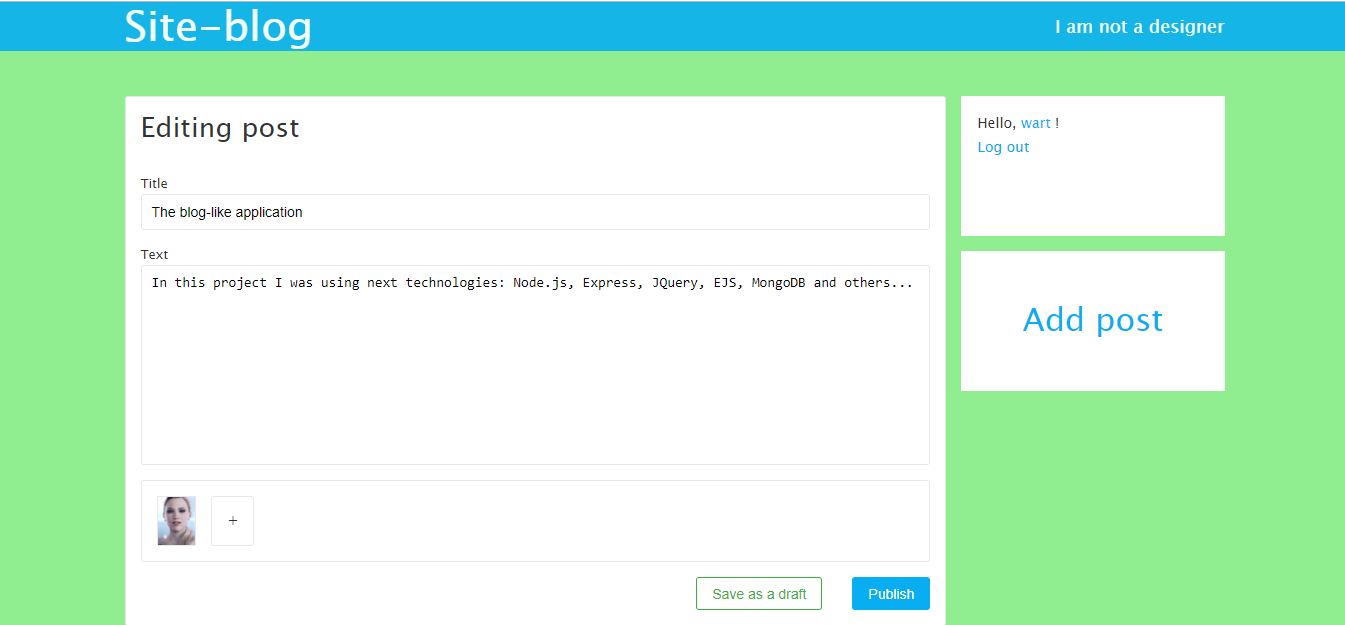
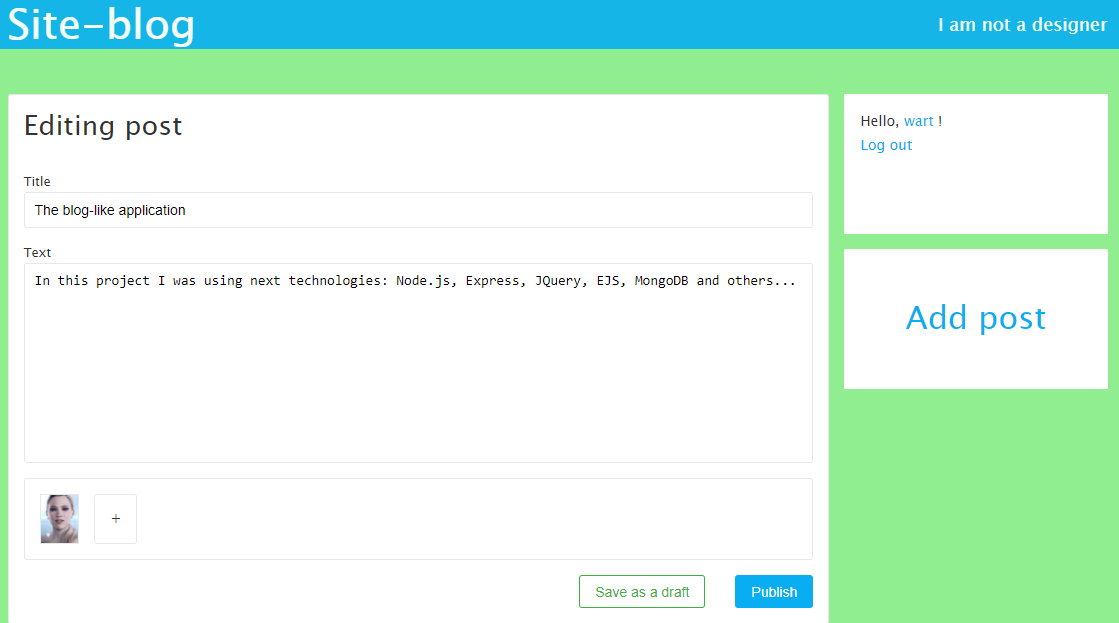
fixedPres

Changed region(s): [[0.0, 0.1525, 1.0, 1.0], [0.0, 0.0, 1.0, 0.0915]]

diff --git a/blogPres/grids.css b/blogPres/grids.css
@@ -6,12 +6,11 @@
 
 body {
     /* background: url('img/pepe2.jpg'); */
-    background:white;
+    background:#90EE90;
 }
 
 .wrapper {
     max-width: 2880px;
-    /* background: rgba(233,171,88,.5); */
     margin: 0 auto;
     display: flex;
     flex-direction: column;
@@ -25,7 +24,6 @@ body {
 }
 
 .intro {
-    /* margin-bottom: 50px; */
     margin: 0 auto 50px;
 }
 
@@ -33,38 +31,39 @@ body {
     margin: 0px auto; 
     padding: 5px;
     max-width: 1500px;
-    /* width: 100%; */
     /* border: 1px dashed black; */
     display: grid;
 }
 
 .item {
-    /* border: 1px solid brown;
-    border-radius: 3px; */
     background-color: rgba(233,171,88,.5);
     padding: 1em;
-    height: 620px;
+    height: 740px;
 }
 
 
 .item1 {
     background: url('./img/1.png');
+    background-size: 100%;
     background-repeat: no-repeat;
 }
 
 .item2 {
     background: url('./img/2.png');
+    background-size: 100%;
     background-repeat: no-repeat;
 }
 
 .item3 {
     background: url('./img/3.png');
     background-repeat: no-repeat;
-    background-size: cover;
+    background-size: 100%;
 } 
 
 .item4 {
     background: url('./img/4.png');
+    background-size: 100%;
+    background-repeat: no-repeat;
 }
 
 .subbox {
@@ -76,8 +75,8 @@ body {
 .item5 {
     background: url('./img/5,1.png');
     background-repeat: no-repeat;
-    background-size: cover;
-    height: 550px !important;
+    background-size: 100%;
+    height: 600px !important;
     /* width: 280px !important; */
 }
 
@@ -104,8 +103,8 @@ body {
 .item6 {
     background: url('./img/5,2.png');
     background-repeat: no-repeat;
-    background-size: cover;
-    height: 550px !important;
+    background-size: 100%;
+    height: 540px !important;
     /* width: 550px !important; */
 }
 
@@ -129,54 +128,13 @@ footer {
     background: brown;
 }
 
-@media screen and (min-width: 1500px) {
-    .item1 {
-        background: url('./img/1.png');
-        background-repeat: no-repeat;
-        background-position-x: 100px;
-    }
-    
-    .item2 {
-        background: url('./img/2.png');
-        background-repeat: no-repeat;
-        background-position-x: 100px;
-    }
+@media screen and (max-width: 1200px) {
+  .item {
+    height: 560px;
+  }
+  .item7 {
+      height: 400px;
+      margin-top: -100px;
+  }
 }
 
-
-
-@media screen and (max-width: 600px) {
-    .itembox {
-        grid-template-columns: 1fr 1fr 1fr 1fr 1fr;
-        grid-template-rows: 1fr 1fr 1fr;
-    }
-
-    .item1 {
-        grid-area: 1 / 1 / 1 / span 5
-    }
-
-    .item2 {
-        grid-area: 2 / 1 / 2 / span 5
-    }
-
-    .item3 {
-        grid-area: 3 / 1 / 3 / span 5
-    }
-
-    .item4 {
-        grid-area: 4 / 1 / 4 / span 5
-    }
-
-    .item5 {
-        grid-area: 5 / 1 / 5 / span 5
-    }
-
-    .item6 {
-        grid-area: 6 / 1 / 6 / span 5
-    }
-
-    .item7 {
-        grid-area: 7 / 1 / 7 / span 5;
-    }
-
-}
